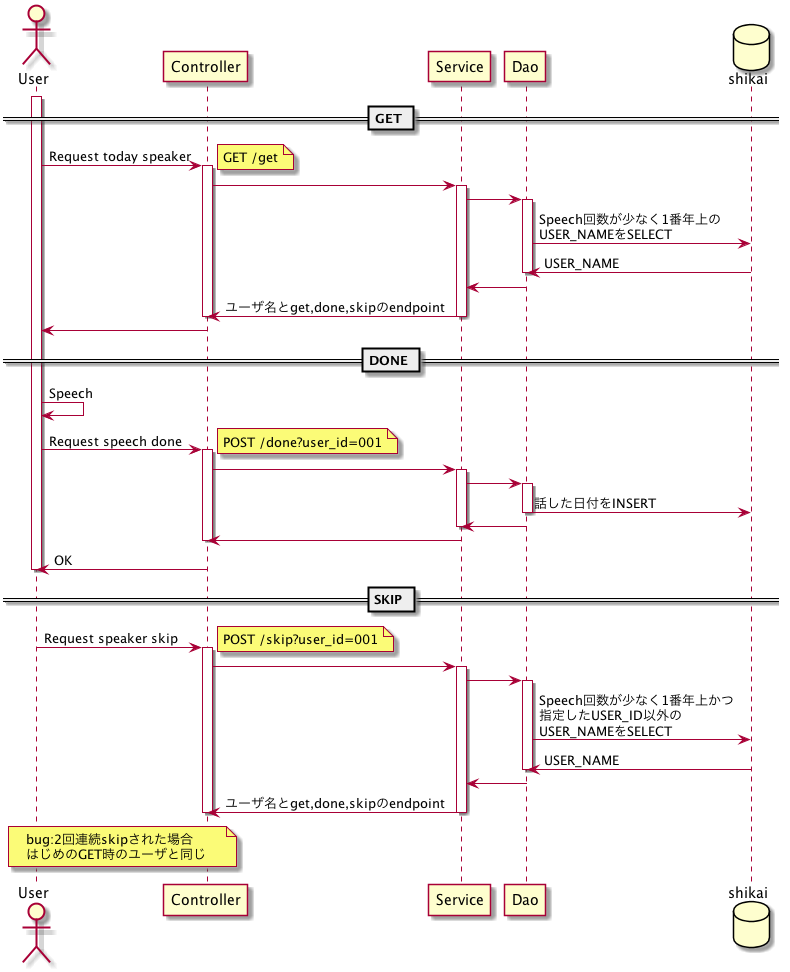
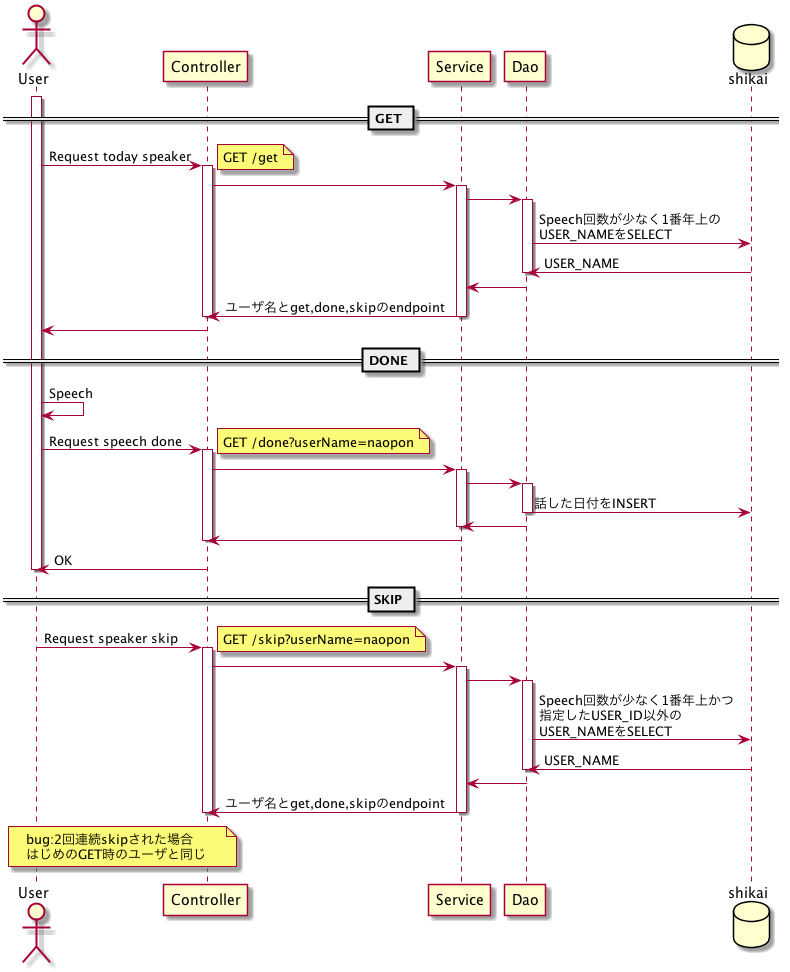
add Controller

Changed region(s): [[0.2734, 0.4321, 0.5468, 0.4938], [0.2734, 0.6173, 0.5468, 0.679]]

diff --git a/src/main/java/com/example/shikaibot/controller/ShikaiController.java b/src/main/java/com/example/shikaibot/controller/ShikaiController.java
@@ -1,0 +1,35 @@
+package com.example.shikaibot.controller;
+
+import org.slf4j.Logger;
+import org.slf4j.LoggerFactory;
+import org.springframework.http.HttpStatus;
+import org.springframework.web.bind.annotation.GetMapping;
+import org.springframework.web.bind.annotation.PostMapping;
+import org.springframework.web.bind.annotation.RestController;
+
+/**
+ * Created by naonaoakiaki on 2017/06/24.
+ */
+@RestController
+public class ShikaiController {
+    private static final Logger log = LoggerFactory.getLogger(ShikaiController.class);
+
+
+    @GetMapping(value = "/get")
+    public HttpStatus getSpeaker() {
+        return HttpStatus.OK;
+    }
+
+    @GetMapping(value = "/done")
+    public HttpStatus doneSpeech(String userName) {
+        log.info(userName);
+        return HttpStatus.OK;
+    }
+
+    @GetMapping(value = "/skip")
+    public HttpStatus skipSpeaker(String userName) {
+        log.info(userName);
+        return HttpStatus.OK;
+    }
+
+}
